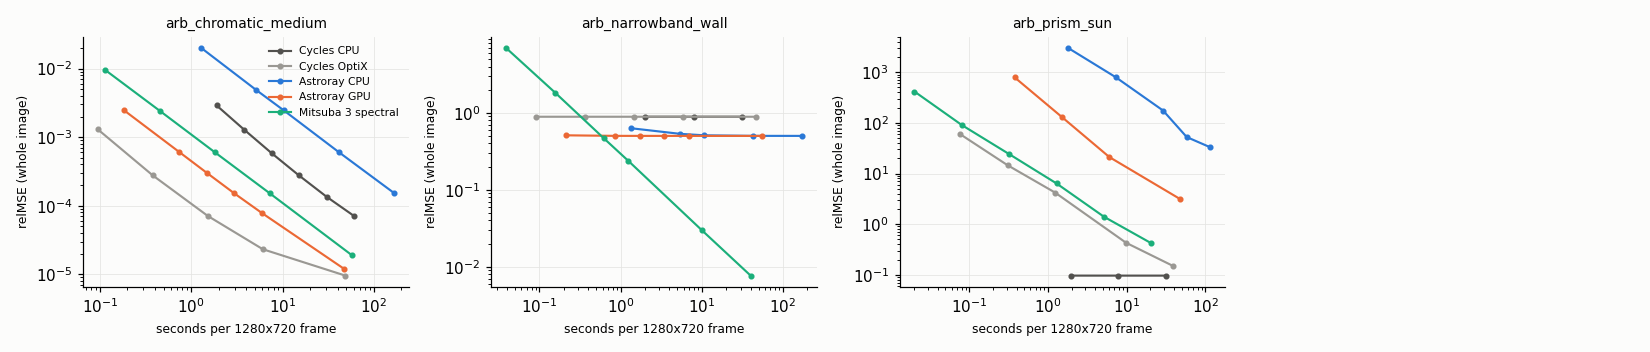
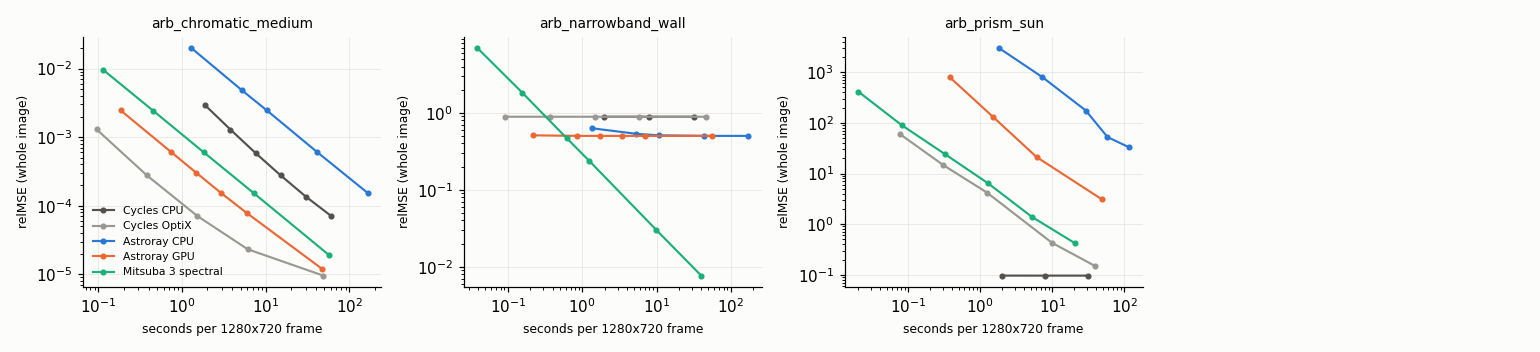
style(pkg307): chart widths under the 1600 px cap, lint

diff --git a/benchmarks/reference_corpus/report_tools.py b/benchmarks/reference_corpus/report_tools.py
@@ -329,7 +329,7 @@ def nb_curves_chart(res: dict, out: Path) -> Path:
     scenes = sorted({r["scene"] for r in res["rows"]})
     cols = 4
     nrows = math.ceil(len(scenes) / cols)
-    fig, axes = _nb_axes(15.0, 3.2 * nrows, nrows=nrows, ncols=cols, squeeze=False)
+    fig, axes = _nb_axes(14.0, 3.2 * nrows, nrows=nrows, ncols=cols, squeeze=False)
     series = {}
     for ax, sid in zip(axes.flat, scenes):
         for leg in NB_ORDER:
@@ -357,7 +357,7 @@ def nb_anatomy_chart(res: dict, out: Path, label: str = "spp64") -> Path:
     hl = nb_headline(res, label)
     scenes = [h["scene"].replace("v2_", "") for h in hl]
     legs = [lg for lg in ("cycles_gpu", "gpu", "cycles", "cpu") if any(lg in h for h in hl)]
-    fig, axes = _nb_axes(19.0, 4.4, ncols=4)
+    fig, axes = _nb_axes(14.0, 4.4, ncols=4)
     series = {}
     slope = lambda h, leg: res.get("slopes", {}).get(h["scene"], {}).get(leg, {}).get("image", float("nan"))
     panels = (("bias2 share of relMSE", lambda d: d["bias2"] / d["relmse"], False),
@@ -451,7 +451,7 @@ def nb_arbitration_table(res: dict, work: Path, out: Path, spp: int = 256) -> Pa
     error measured from its two halves (``<scene>_mitsuba_se.json``). z = (leg - ref) / hypot(se_leg, se_ref). Channels whose
     reference mean is below 0.01 (or negative: out of the sRGB gamut) are not compared."""
     import numpy as np
-    meta, rows = res["meta"], {}
+    meta = res["meta"]
     refs_dir = REPO_ROOT / meta["ref"].split(" in ")[1]
     lum = np.array([0.2126, 0.7152, 0.0722])
     out_rows = []
@@ -459,7 +459,7 @@ def nb_arbitration_table(res: dict, work: Path, out: Path, spp: int = 256) -> Pa
         se_ref = json.loads((refs_dir / f"{sid}_mitsuba_se.json").read_text())
         ref_img = _nb_read_exr(refs_dir / f"{sid}_mitsuba.exr")
         for roi, rect in meta["crops"][sid].items():
-            def roi_mean(img):
+            def roi_mean(img, rect=rect):
                 h, w = img.shape[:2]
                 box = img[round(rect[1] * h):round(rect[3] * h), round(rect[0] * w):round(rect[2] * w)].reshape(-1, 3).mean(0)
                 return np.append(box, box @ lum)

diff --git a/benchmarks/reference_corpus/arbitration/mitsuba_scenes.py b/benchmarks/reference_corpus/arbitration/mitsuba_scenes.py
@@ -307,8 +307,9 @@ def main(argv=None):
         traceback.print_exc()
         print(f"PKG119B_LEG FAIL {type(exc).__name__}: {exc}")
         return 1
-    import mitsuba as mi
     import array
+
+    import mitsuba as mi
     flat = img.array  # no numpy in this venv: dr arrays export host memory through the buffer protocol (memview)
     buf = array.array("f")
     if hasattr(flat, "memview"):
